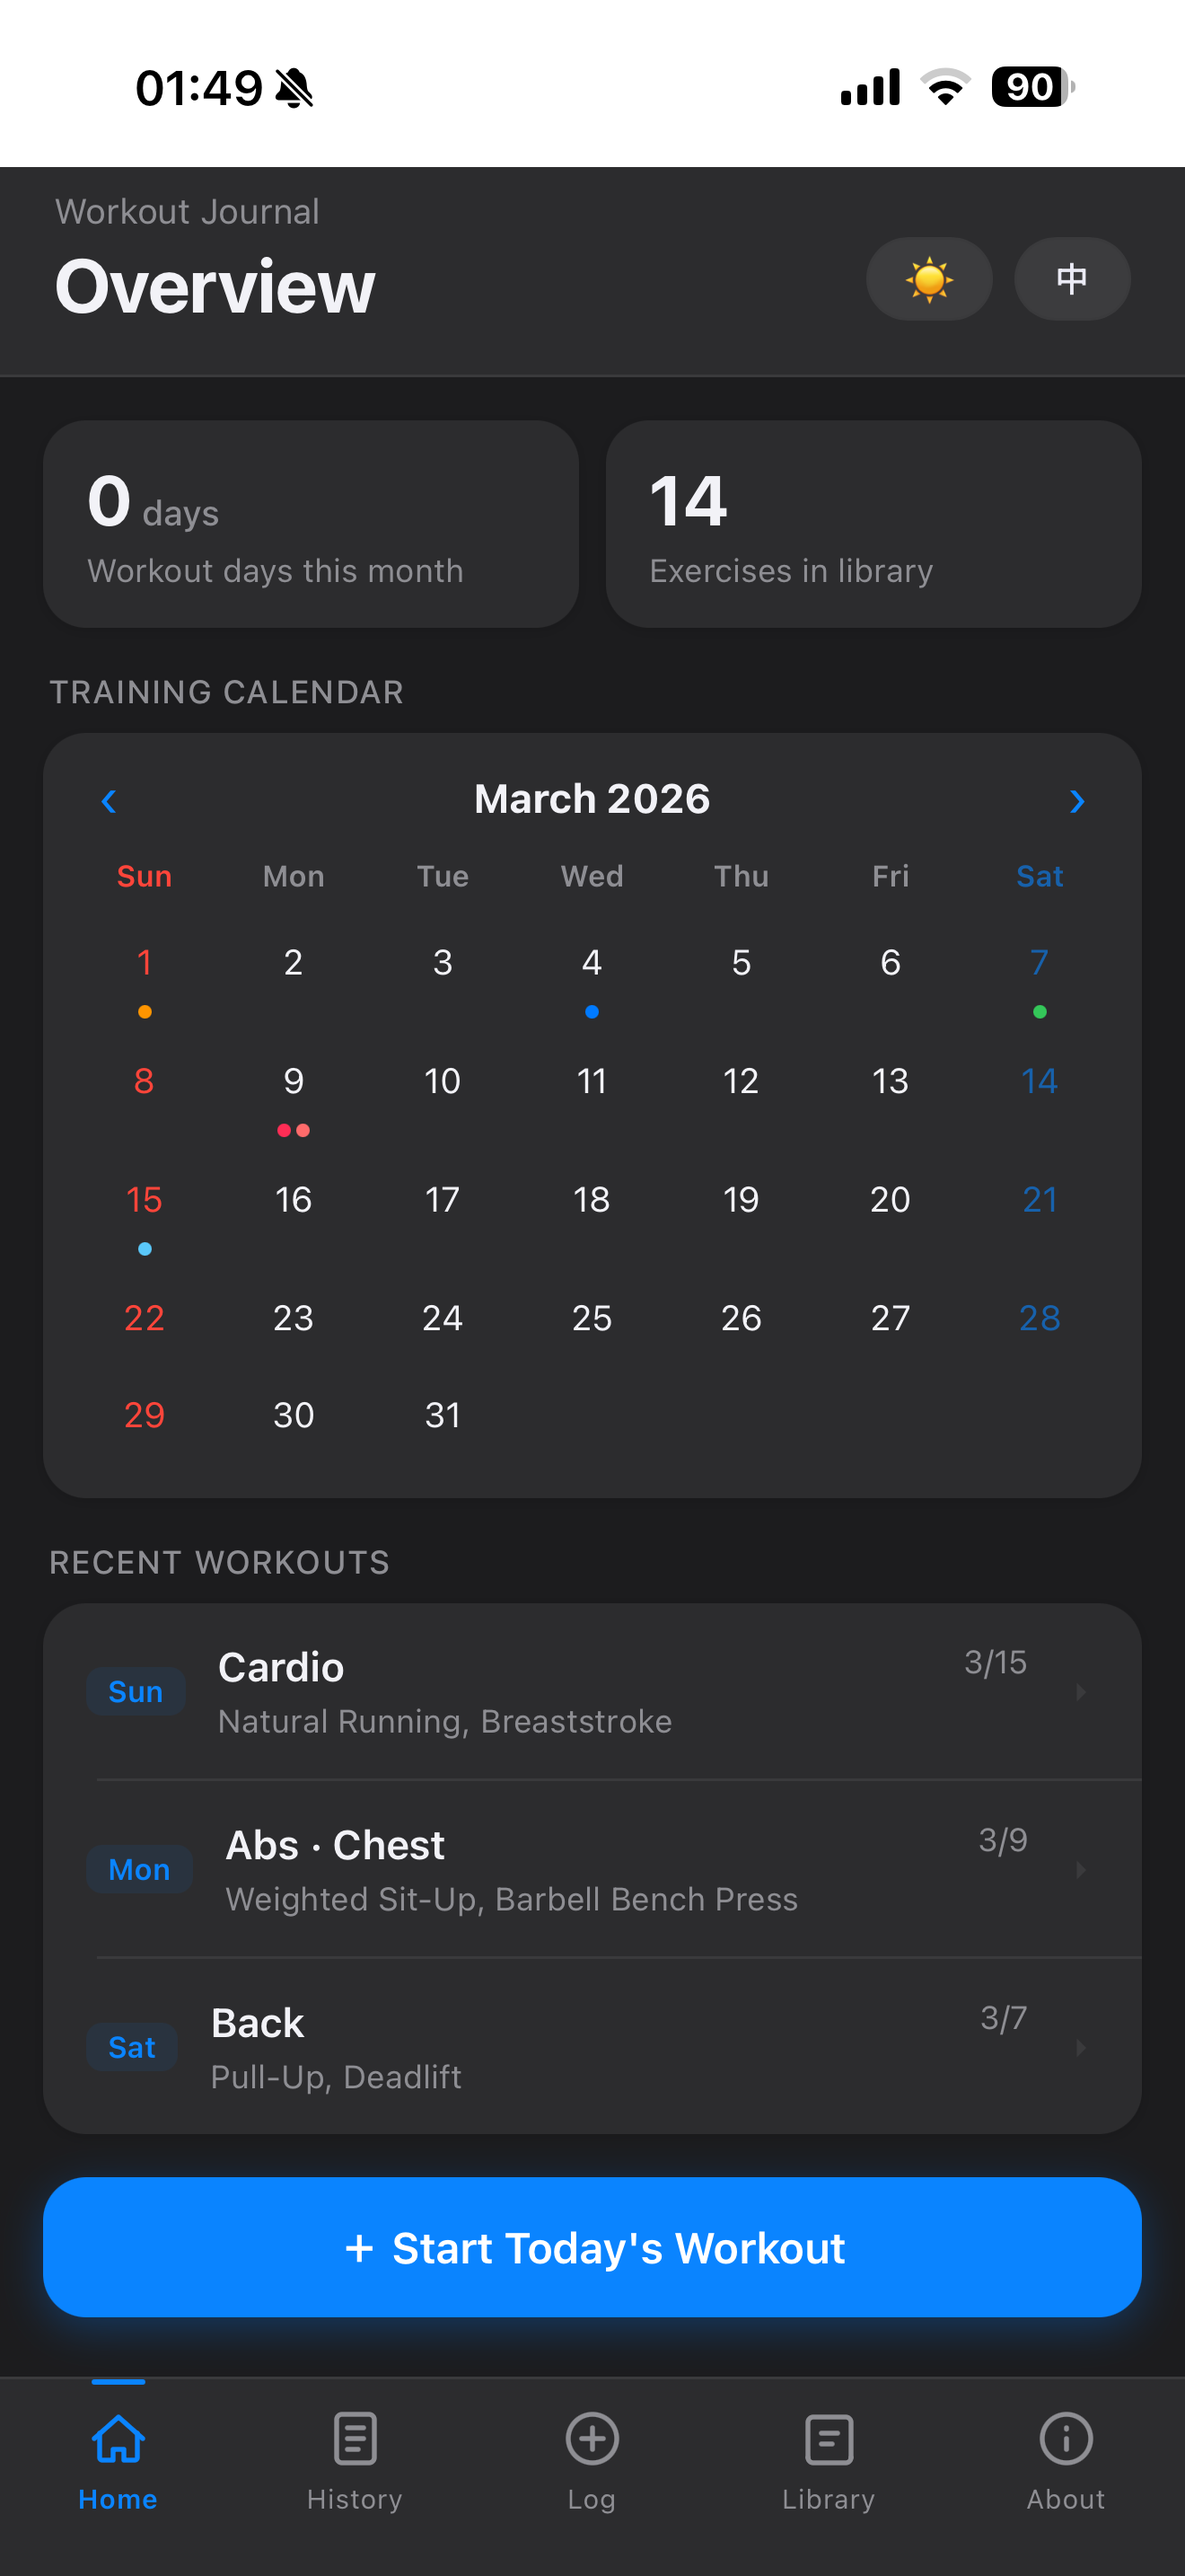
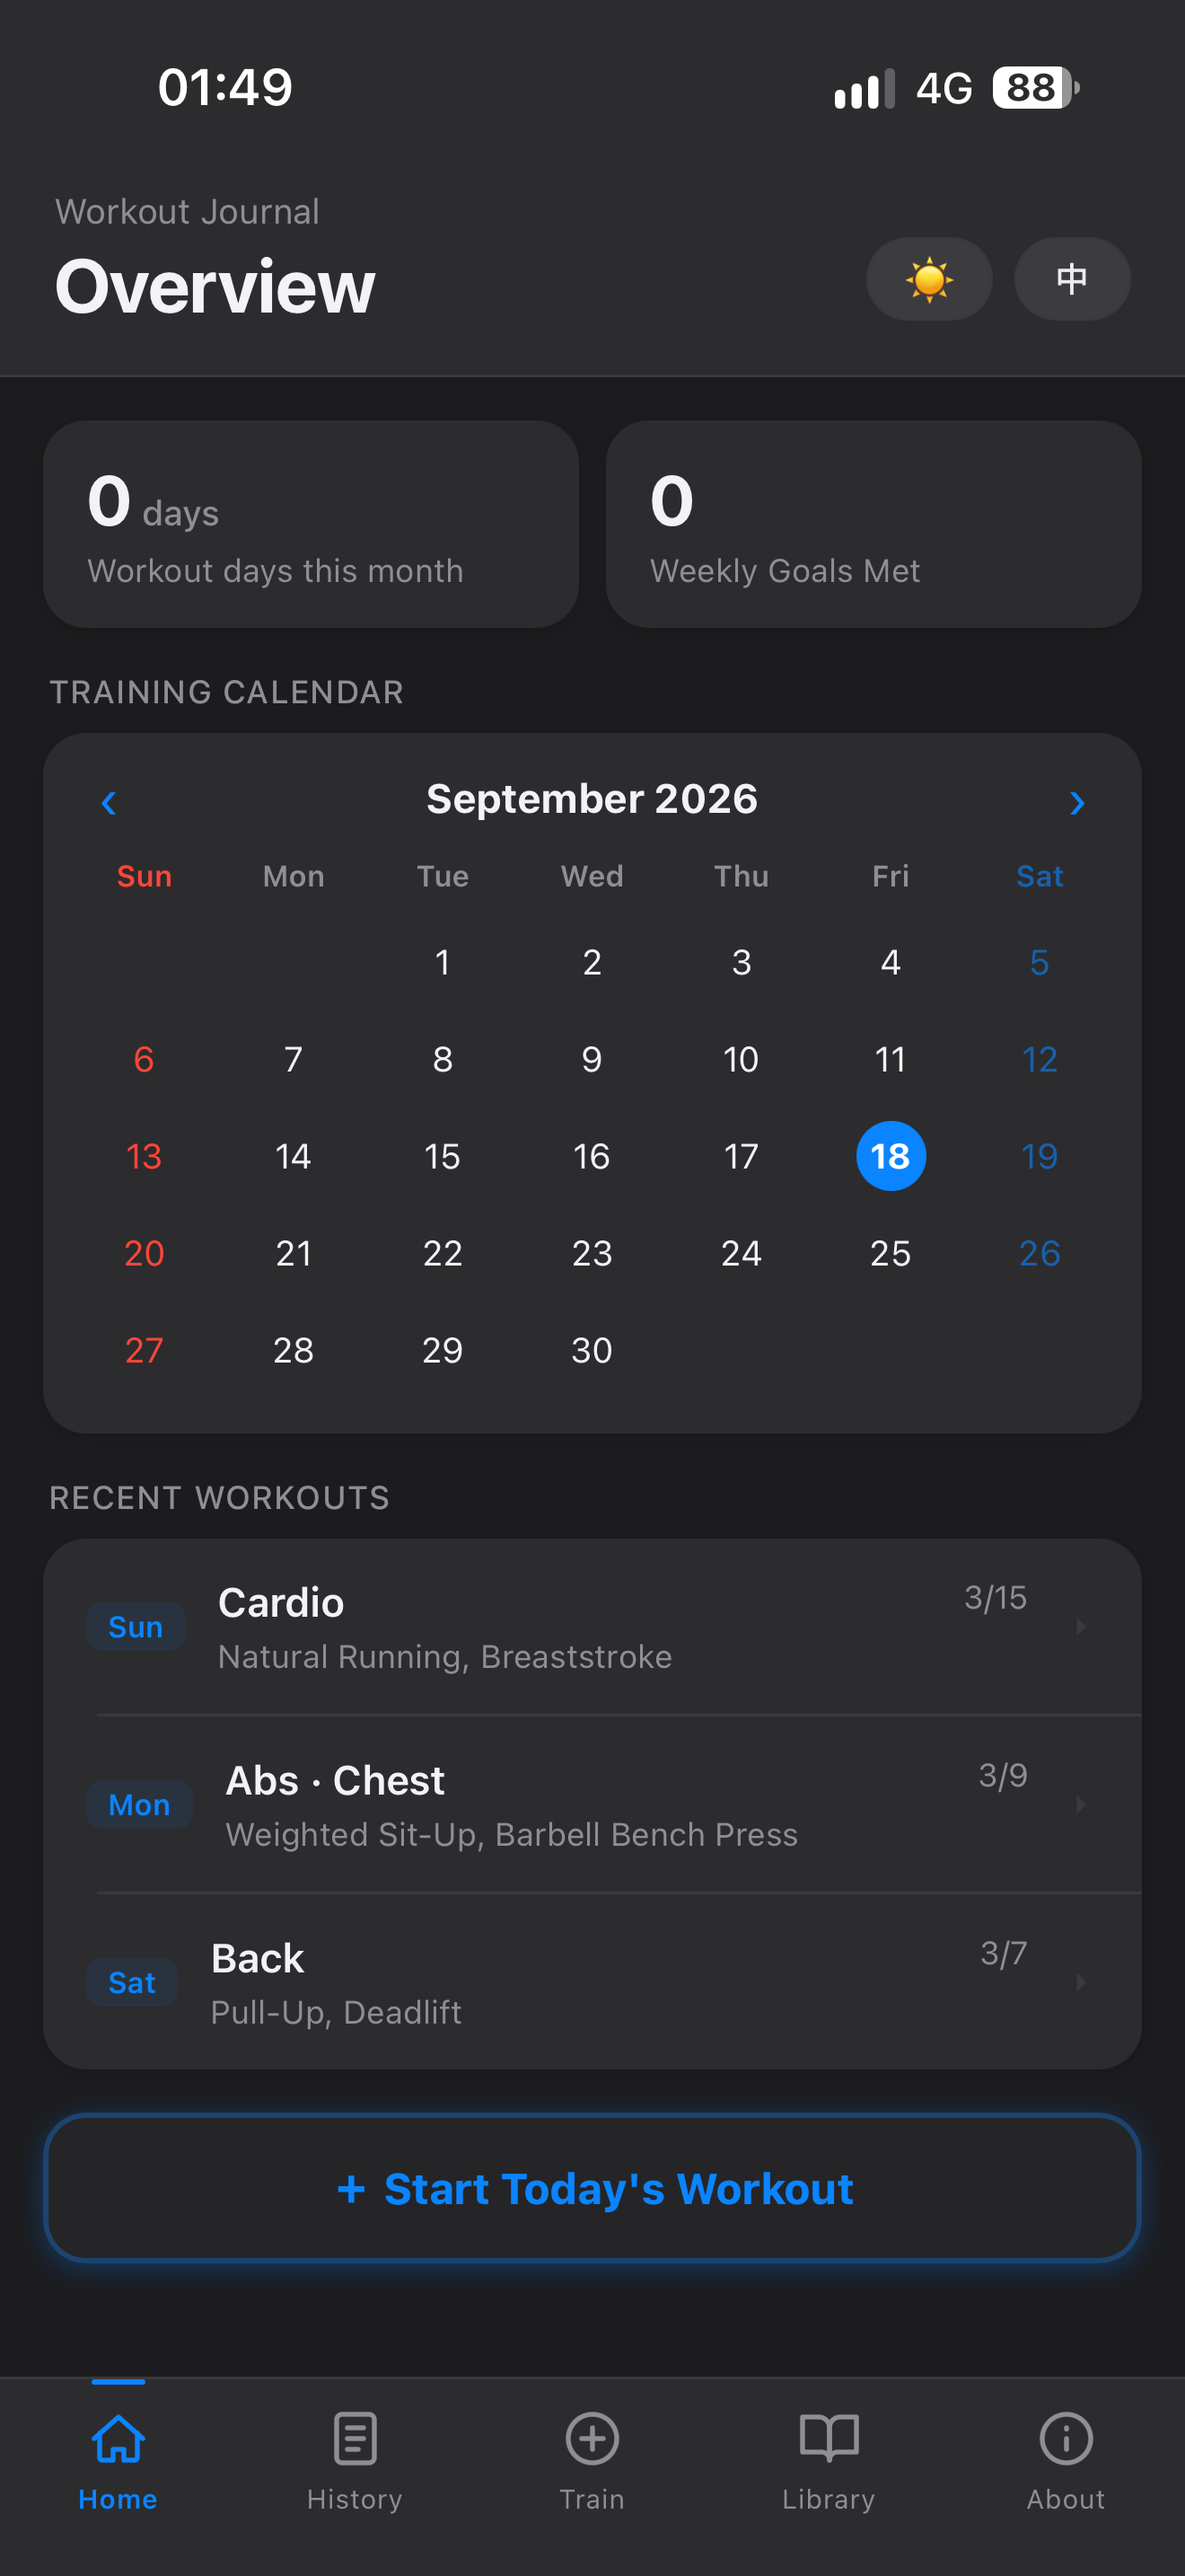
v2.1.0b3_updated screenshots

diff --git a/README.md b/README.md
@@ -112,7 +112,13 @@ Then: **Share → Add to Home Screen** for full-screen experience.
 
 ## 📸 Screenshots
 
-<img src="public/screenshots/1_Homepage.PNG" width="250"> <img src="public/screenshots/2_History.PNG" width="250"> <img src="public/screenshots/3_Log.PNG" width="250"> 
+<div style="display: flex; overflow-x: auto; gap: 12px; padding: 8px 0; max-width: 100%;">
+  <img src="public/screenshots/1_Homepage.PNG" alt="畫面 1" height="320" style="border-radius: 8px;" />
+  <img src="public/screenshots/2_History.PNG" alt="畫面 2" height="320" style="border-radius: 8px;" />
+  <img src="public/screenshots/3_Detail.PNG" alt="畫面 3" height="320" style="border-radius: 8px;" />
+  <img src="public/screenshots/4_Log.PNG" alt="畫面 4" height="320" style="border-radius: 8px;" />
+  <img src="public/screenshots/5_Library.PNG" alt="畫面 5" height="320" style="border-radius: 8px;" />
+</div>
 
 ---
 
@@ -207,8 +213,6 @@ npm run deploy
 - Developed with Claude
 
 ---
-
-
 
 ## 🎯 Product Philosophy
 
